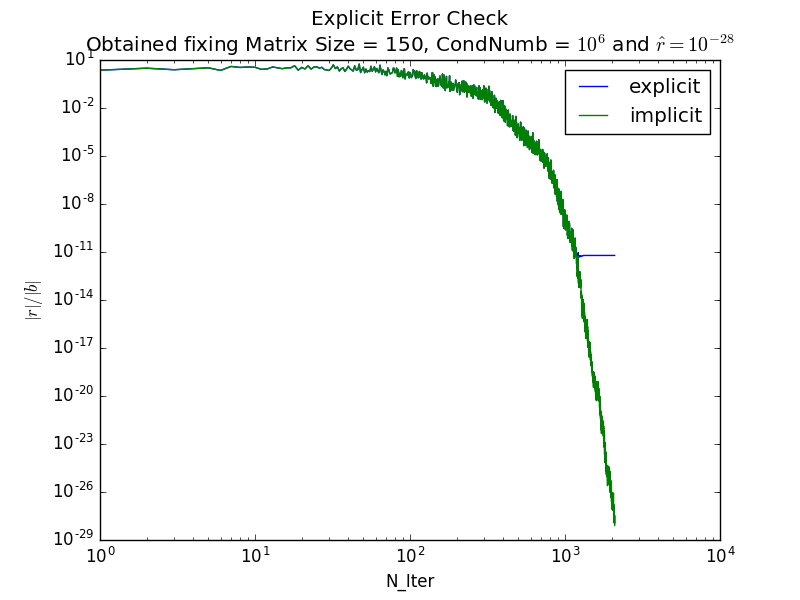
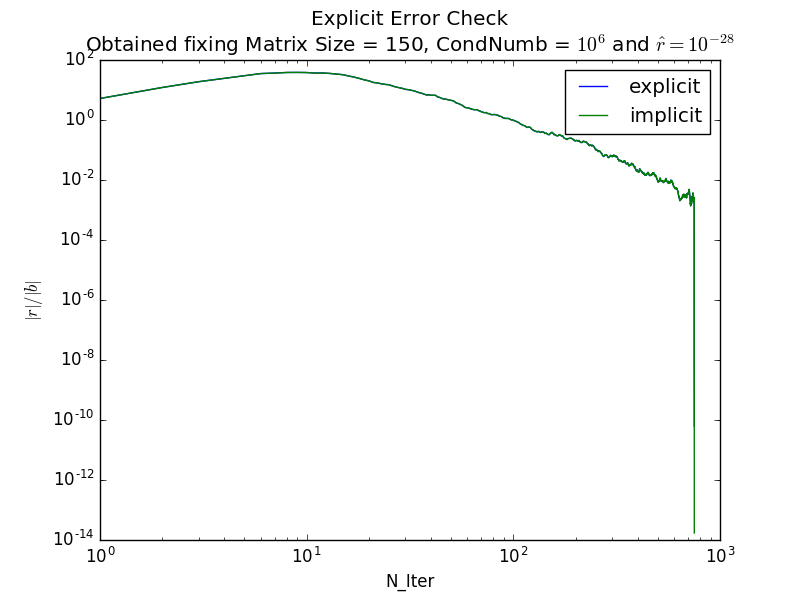
changes

diff --git a/D2/src/laplace.c b/D2/src/laplace.c
@@ -9,7 +9,7 @@ int main(){
 
   double *M, *f, *b, *check_sol, *eigenv;
   double r_hat = 1.e-15;
-  double sigma = 0.6, D = 1., s = -0.5;
+  double sigma = 0.6,  s = -0.5;
   double t_start, t_end;
   int i, j, n_it, n_rep = 1000;
   int L, L_start = 10, L_end = 5e2, L_step = 50;
@@ -105,11 +105,10 @@ int main(){
   sparse = fopen("results/sparse_timing.dat", "w");
 
   for(L = L_start; L < L_end; L += L_step){
-    M = (double*) malloc(L * L * sizeof(double));
     f = (double*) malloc(L * sizeof(double));
     b = (double*) malloc(L * sizeof(double));
     
-    init_laplace_matrix(M, sigma, s, L);
+    /* init_laplace_matrix(M, sigma, s, L); */
     
     /* randomly filling b vector */
     fill_source(b, 2.2, 0.5, L);
@@ -124,7 +123,6 @@ int main(){
     fprintf(sparse, "%d\t%lg\n", L, t_end - t_start);
     fprintf(stderr, "\t%d\t%lg\n", L, t_end - t_start);
     
-    free(M);
     free(f);
     free(b);
   }
@@ -132,17 +130,29 @@ int main(){
   fclose(sparse);
 
   /* CHECK CONDITION NUMBER */
-  L = 6;
-  eigenv = (double*) malloc(L * sizeof(double));
+
+  fprintf(stderr, "\n\tCondition number section\n\n");
+  sparse = fopen("results/cond_numb_check.dat", "w");
+
+  L = 20000;
+  r_hat = 1.e-8;
+  f = (double*) malloc(L * sizeof(double));
+  b = (double*) malloc(L * sizeof(double));
+  check_sol = (double*) malloc(L * sizeof(double));
   
-  compute_eigenvalues(eigenv, sigma, L);
+  fill_source(b, 2.2, 0.5, L);
+  
+  for(sigma = 0.05; sigma > 1.e-5; sigma *= 0.5){
 
-  printf("\n\tPrinting the eigenvalues for matrix with size %d and sigma = %lg\n\n", L, sigma);
-  for(j = 0; j < L; j++)
-    printf("\t%lg\n", eigenv[j]);
+    sparse_conj_grad_alg(f, b, sigma, s, r_hat, L, &n_it);
 
-  printf("\n");
-  free(eigenv);
+    fprintf(sparse, "%lg\t%d\n", pow((2./sigma + 1.), 0.5), n_it);
+  }
+
+  free(f);
+  free(b);
+  
+  fclose(sparse);
   
   return 0;
 }

diff --git a/D1/src/system_solvers.c b/D1/src/system_solvers.c
@@ -56,39 +56,39 @@ void conj_grad_alg(double* A, double* x, double* b, double prec, int N, int* n_i
   double *r = (double*) malloc(N * sizeof(double));
   double *p = (double*) malloc(N * sizeof(double));
   double *t;
-  double *r_old = (double*) malloc(N * sizeof(double));
-  double r_hat_square, alpha, beta;
+  double r_hat_square, alpha, beta, b_mod_square, r_mod_prev;
   
   /* arrays initialization */
   for(j = 0; j < N; j++){
     x[j] = 0.;
-    r_old[j] = b[j];
+    r[j] = b[j];
     p[j] = b[j];
   }
 
+  b_mod_square = vector_prod(b, b, N);
+  
   *n_iter = 0;
-  r_hat_square = vector_prod(r_old, r_old, N);
-  r_hat_square /= vector_prod(b, b, N);
+  r_hat_square = vector_prod(r, r, N);
+  r_hat_square /= b_mod_square;
 
   while(r_hat_square > prec * prec){
     t = mat_vec_prod(A, p, N);
-    alpha = vector_prod(r_old, r_old, N);
+    alpha = vector_prod(r, r, N);
     alpha /= vector_prod(p, t, N);
 
+    r_mod_prev = vector_prod(r, r, N);
+    
     for(j = 0; j < N; j++){
       x[j] += alpha * p[j];
-      r[j] = r_old[j] - alpha * t[j];
+      r[j] -= alpha * t[j];
     }
 
-    beta = vector_prod(r, r, N);
-    beta /= vector_prod(r_old, r_old, N);
+    beta = vector_prod(r, r, N) / r_mod_prev;
 
-    for(j = 0; j < N; j++){
+    for(j = 0; j < N; j++)
       p[j] = r[j] + beta * p[j];
-      r_old[j] = r[j];
-    }
-    r_hat_square = vector_prod(r_old, r_old, N);
-    r_hat_square /= vector_prod(b, b, N);
+
+    r_hat_square = vector_prod(r, r, N) / b_mod_square;
     free(t);
 
     (*n_iter)++;
@@ -96,7 +96,6 @@ void conj_grad_alg(double* A, double* x, double* b, double prec, int N, int* n_i
 
   free(r);
   free(p);
-  free(r_old);
 }
 
 /* Perform the product between two vector of length N */

diff --git a/D2/src/system_solvers.c b/D2/src/system_solvers.c
@@ -168,7 +168,6 @@ void conj_guess(double* A, double* x, double* b, double* guess, double prec, int
 /* This function store the result into array x */
 /* The number of iterations is stored into n_iter */
 /* the found solution is stored in x */
-/* void sparse_conj_grad_alg(double* A, double* x, double* b, double prec, int N, int* n_iter){ */
 void sparse_conj_grad_alg(double* x, double* b, double sigma, double s, double prec, int N, int* n_iter){
 
   int j;
@@ -187,6 +186,7 @@ void sparse_conj_grad_alg(double* x, double* b, double sigma, double s, double p
   b_mod_square = vector_prod(b, b, N);
 
   *n_iter = 0;
+  
   r_hat_square = vector_prod(r, r, N) / b_mod_square;
 
   while(r_hat_square > prec * prec){
@@ -207,8 +207,8 @@ void sparse_conj_grad_alg(double* x, double* b, double sigma, double s, double p
       p[j] = r[j] + beta * p[j];
 
     r_hat_square = vector_prod(r, r, N) / b_mod_square;
-    free(t);
 
+    free(t);
     (*n_iter)++;
   }
 
@@ -238,7 +238,7 @@ double* mat_vec_prod(double* A, double* x, int N){
 
   double* ret = (double*) calloc(N, sizeof(double));
   int i, j;
-  
+
   for(i = 0; i < N; i++)
     for(j = 0; j < N; j++)
       ret[i] += A[i*N + j] * x[j];
@@ -249,7 +249,7 @@ double* mat_vec_prod(double* A, double* x, int N){
 /* Perform the product between a matrix and a vector */
 /* taking into account that the matrix is sparse */
 double* sparse_prod(double* x, double sigma, double s, int N){
-  double* ret = (double*) calloc(N, sizeof(double));
+  double* ret = (double*) malloc(N * sizeof(double));
   /* int i, j, offset = 0; */
   int i;
   /* first and last entry of the vector are computed "by hand" */

diff --git a/D2/src/plot.py b/D2/src/plot.py
@@ -44,3 +44,14 @@ plt.xlabel("Matrix Size")
 plt.ylabel("time (s)")
 plt.legend(bbox_to_anchor = (0.26,1.))
 plt.savefig("results/timing.png")
+plt.close("all")
+
+data = np.loadtxt("results/cond_numb_check.dat")
+sig  = data[:,0]
+n_it = data[:,1]
+plt.plot(sig, n_it)
+plt.title("Condition Number Check\nMatrix size = 20000, $\hat{r} = 10^{-8}, \sigma \in [10^{-5}, 0.05]$")
+plt.xlabel("(ConditionNumber)**0.5")
+plt.ylabel("Number of iteration")
+plt.show()
+
